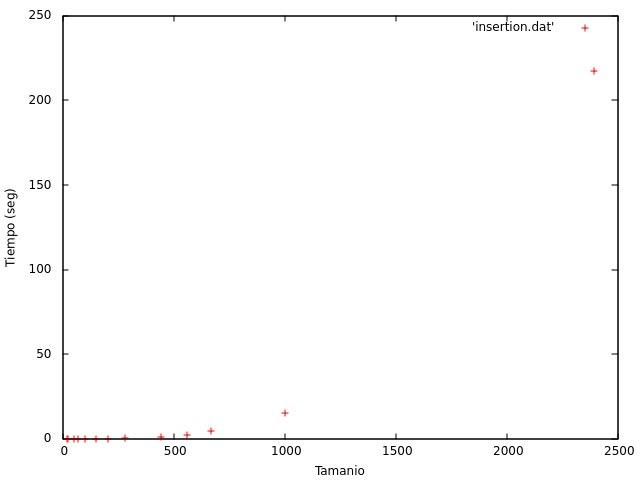
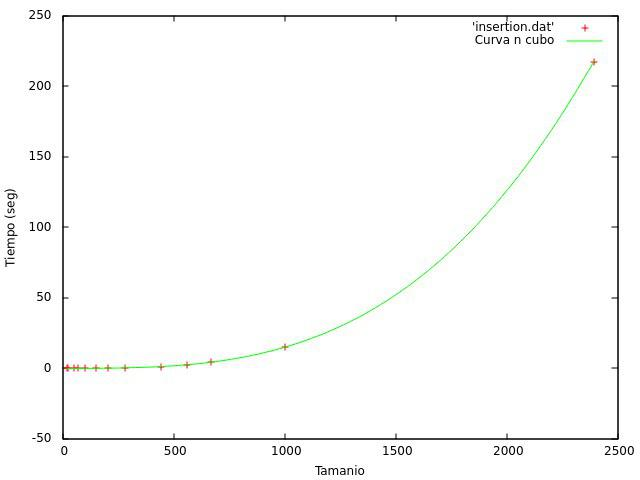
P3:Memoria con eficiencia empírica

diff --git a/Practica3_Greedy/grupal/P3grupal.tex b/Practica3_Greedy/grupal/P3grupal.tex
@@ -140,7 +140,34 @@ El algoritmo está formado por dos bucles for anidados, ambos hacen n iteracione
 $$n*\sum_{k=1}^{n}k = n*\frac{(n+1)*n}{2} = \frac{n^3+n^2}{2}$$
 
 Luego el algoritmo es de $O(n^3)$
-  
+
+\subsubsection{Eficiencia empírica}
+
+\begin{tabular}{|c|c|} \hline
+\textbf{Tamaño}& 
+\textbf{Algoritmo de cercanía}
+  \\ \hline
+     16      & 0.000129  \\
+     22      & 0.000318  \\
+     48      & 0.000712  \\
+     70      & 0.002054  \\
+     101     & 0.005609            \\
+     150     & 0.016716  \\
+     202     & 0.035437  \\
+     280     & 0.086349    \\
+     442     & 0.331839    \\
+     561     & 0.671705  \\
+     666     & 1.116590       \\
+     1002    & 3.849760  \\
+     2392    & 50.81290   \\
+\hline
+\end{tabular}
+
+\begin{figure}[H]
+  \centering
+\subfigure[Cercanía]{\label{graf:ulysses16}\includegraphics[width=100mm]{graficas/ajustes/nearest.jpg}}
+\end{figure}
+
 \subsection{Algoritmo de inserción}
 
 Partimos de un recorrido parcial, que incluye la ciudad más al norte,
@@ -223,11 +250,142 @@ tendríamos la siguiente sumatoria:
 \end{align*}
 Y por lo tanto la eficiencia teórica del algoritmo es $O(n^3)$.
 
+\subsubsection{Eficiencia empírica}
+
+\begin{tabular}{|c|c|} \hline
+\textbf{Tamaño}& 
+\textbf{Algoritmo de inserción}
+  \\ \hline
+     16      & 0.000285  \\
+     22      & 0.000702  \\
+     48      & 0.002520  \\
+     70      & 0.006446  \\
+     101     & 0.019039            \\
+     150     & 0.054795  \\
+     202     & 0.121605  \\
+     280     & 0.314127    \\
+     442     & 1.295430    \\
+     561     & 2.619400  \\
+     666     & 4.445740       \\
+     1002    & 15.04680  \\
+     2392    & 217.6250   \\
+\hline
+\end{tabular}
+
+\begin{figure}[H]
+  \centering
+\subfigure[Inserción]{\label{graf:ulysses16}\includegraphics[width=100mm]{graficas/ajustes/insertion.jpg}}
+\end{figure}
+
 \subsection{Nuestra propuesta: Algoritmo double nearest}
+
+Nuestro algortimo busca cuales son las dos cuidades cuya suma de sus
+distancias es la mínima respecto a la última ciudad recorrida, por los que se seleccionan dos ciudades cada vez, gracias a tres bucles
+anidados.
+
+Se va rellenando en el vector de resultados con las ciudades con
+distancias más óptimas, y sumando el total de las distancias
+calculadas. Una vez se ha hecho esto, en cada iteración se borran las
+ciudades de los candidatos a recorrer, ya que no volveremos a pasar
+por ellas.
+
+Para decidir que ciudades son las optimas, para cada ciudad
+candidata se calcula la distancia entre ella y todas las demás ciudades, buscando el camino más optimo hacia cualquiera del resto de candidatos. Así escogemos las dos ciudades óptimas.
+
+Al salir de nuestro bucle anidado, si el numero de ciudades no era
+par, asignamos al último elemento del vector de resultados nuestra
+última ciudad candidata y sumamos la distancia de ésta a la anterior
+cuidad.  Para finalizar, añadimos al recorrido total la distancia de
+nuestra ultimo ciudad del camino a nuestra cuidad de origen. Ya
+tendríamos nuestro circuito óptimo.
 
 \subsubsection{Código}
 
+\begin{lstlisting}
+vector<int> result(n);
+result[0]=0;
+
+vector<int> candidates(n-1);
+
+for(i = 1; i < n; i++) candidates[i-1]=i;
+
+int sumDistances=0, d1, d2, bestD, bestCity1, bestCity2;
+
+for(int k = 1; k < (n+1)/2; k++){ // Relleno el vector result
+  bestD = INT_MAX;
+  for(i = 0; i < candidates.size(); i++){ // Para cada candidato
+    d1 = map[max(candidates[i],result[2*k-2])][min(candidates[i],result[2*k-2])];
+    d2 = INT_MAX;
+    for(j = 0; j < candidates.size(); j++){ // Para el resto de candidatos
+      if(candidates[j] != candidates[i]){
+        d2 = map[max(candidates[i],candidates[j])][min(candidates[i],candidates[j])];
+        if(d1 + d2 < bestD){
+          bestD = d1 + d2;
+          bestCity1 = candidates[i];
+          bestCity2 = candidates[j];
+	}
+      }
+    }
+  }
+  result[2*k-1] = bestCity1;
+  result[2*k] = bestCity2;
+  sumDistances += bestD;
+  candidates.erase(remove(candidates.begin(),candidates.end(),bestCity1));
+  candidates.erase(remove(candidates.begin(),candidates.end(),bestCity2));
+}
+
+if(!(n%2)){
+  result[n-1] = candidates[0];
+  sumDistances += map[max(result[n-1],result[n-2])][min(result[n-1],result[n-2])];
+}
+
+sumDistances += map[max(result[n-1],result[0])][min(result[n-1],result[0])];
+\end{lstlisting}
+
 \subsubsection{Eficiencia teórica}
+Veamos la eficiencia teórica del algoritmo que hemos ideado
+nosotros. Como vemos, el bucle externo del algoritmo se ejecuta n/2
+veces. Los dos bucles internos se ejecutarían n-2k
+(=candidates.size()) veces cada uno, siendo 2k el número de ciudades
+que ya hemos añadido al recorrido (k es el índice por el que va el
+bucle externo). Dado que están anidados uno dentro del otro estos se
+ejecutan en total $(n-2k)^2$ veces. Las funciones erase y remove son
+O(candidates.size())=O(n-2k). Por tanto, tenemos para calcular la
+eficiencia teórica la siguiente sumatoria (con j=n/2):
+
+  \begin{align*}
+  \sum_{k=1}^{\frac{n}{2}}[(n-2k)^2+n-2k] &=\sum_{k=1}^j[n^2+4k^2-4nk+n-2k]\\&=jn^2+4\frac{j(j+1)(2j+1)}{6}-4n\frac{j(j+1)}{2}+jn-2\frac{j(j+1)}{2}\\&=\frac{n^3}{2}+4\frac{\frac{n^3}{2}+\frac{n^2}{2}+n^2+n}{12}-\frac{n^3}{2}-n^2+\frac{n^2}{2}-\frac{\frac{n^2}{2}+n}{2}\\&=\frac{n^3}{2}+\frac{n^3}{6}+\frac{n^2}{6}+\frac{n^2}{3}+\frac{n}{3}-\frac{n^3}{2}-\frac{n^2}{2}-\frac{n^2}{4}-\frac{n}{2}\\&=\frac{n^3}{6}+\frac{n^2}{6}+\frac{n^2}{3}+\frac{n}{3}-n^2-\frac{n^2}{2}-\frac{n^2}{4}-\frac{n}{2}
+  \end{align*}
+  Eficiencia: $O(n^3)$.
+
+\subsubsection{Eficiencia empírica}
+
+\begin{tabular}{|c|c|} \hline
+\textbf{Tamaño}& 
+\textbf{Algoritmo double nearest}
+  \\ \hline
+     16      & 9.1e-05   \\
+     22      & 0.000288  \\
+     48      & 0.001181  \\
+     70      & 0.001640  \\
+     101     & 0.005582            \\
+     150     & 0.015294  \\
+     202     & 0.031035  \\
+     280     & 0.079450    \\
+     442     & 0.309697    \\
+     561     & 0.655716  \\
+     666     & 1.102970       \\
+     1002    & 3.842490  \\
+     2392    & 57.64050   \\
+\hline
+\end{tabular}
+
+\begin{figure}[H]
+  \centering
+\subfigure[Double nearest]{\label{graf:ulysses16}\includegraphics[width=100mm]{graficas/ajustes/doubleNearest.jpg}}
+\end{figure}
+
+
 
 \section{Resultados}
 
@@ -287,5 +445,9 @@ algoritmos en una serie de ejemplos y el peso de estos ciclos.
 \subfigure[Algoritmo de inserción. Peso = 316968]{\label{graf:pr1002_insertion}\includegraphics[width=55mm]{graficas/pr1002_insertion}}
 \subfigure[Algoritmo doubleNearest. Peso = 385020]{\label{graf:pr1002_...}\includegraphics[width=55mm]{graficas/pr1002_doubleNearest}}
 \end{figure}
+
+\section{Conclusión}
+
+
 
 \end{document}
